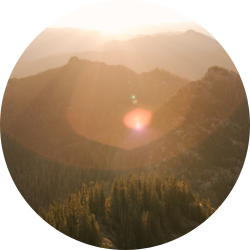
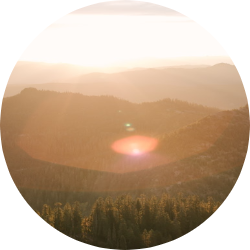
criando js no execício do curso de javascript

diff --git a/exercicios/pratica01/pratica01.html b/exercicios/pratica01/pratica01.html
@@ -2,29 +2,21 @@
 <html lang="pt-br">
 <head>
     <meta charset="UTF-8">
-    <meta name="viewport" content="width=
-    , initial-scale=1.0">
+    <meta name="viewport" content="width = ,initial-scale=1.0">
     <title>Modelo de exercício</title>
     <link rel="stylesheet" href="estilo/style.css">
 </head>
-<body>
+<body onload="carregar()">
     <header>
         <h1>Verificador de idade</h1>
     </header>
     <section>
-        <form action="">
-            <div id="data">
-                <label for="idata">Data de nascimento: </label>
-                <input type="date" name="ndata" id="idata">
-            </div>
-            <div id="sexo">
-                <label for="isexo">Sexualidade</label>
-                <input type="text" name="nsexo" id="isexo">
-            </div>
-            <div>
-                <input type="button" value="Verificar" onclick="verificar">
-            </div>
-        </form>
+        <div id="msg">
+            aparecer a mensagem...
+        </div>
+        <div id="foto">
+            <img id="imagem" src="imagens/manha.png" alt="foto de manha">
+        </div>
     </section>
     <footer>
         <p>&copy;Jhonnathan Jhonny</p>

diff --git a/exercicios/pratica01/script.js b/exercicios/pratica01/script.js
@@ -1,0 +1,20 @@
+function carregar(){
+    var msg = document.getElementById('msg')
+    var img = document.getElementById('imagem')
+    var data = new Date()
+    var hora = data.getHours()
+    msg.innerHTML = `Agora são ${hora} horas`
+
+    if(hora > 0 && hora < 13){
+        img.src = "imagens/manha.png"
+        document.body.style.backgroundColor = '#e2cd9f'
+    } 
+    else if (hora >= 13 && hora < 18){
+        img.src = "imagens/tarde.png"
+        document.body.style.backgroundColor = '#b9846f'
+    } 
+    else {
+        img.src = "imagens/noite.png"
+        document.body.style.backgroundColor = '#515154'
+    }
+}

diff --git a/exercicios/pratica01/estilo/style.css b/exercicios/pratica01/estilo/style.css
@@ -19,9 +19,12 @@ header > h1 {
 section {
     margin: auto;
     width: 450px;
-    height: 400px;
     background-color: white;
     border-radius: 10px;
+}
+div{
+    text-align: center;
+    padding: 20px;
 }
 
 section > form > div#data {
